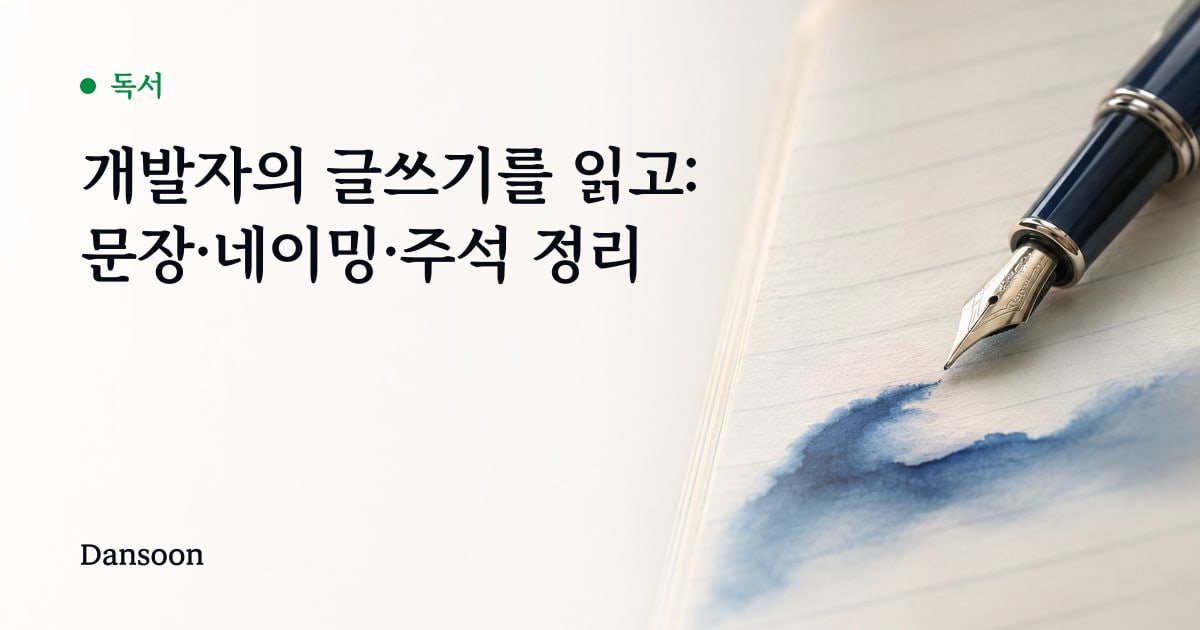
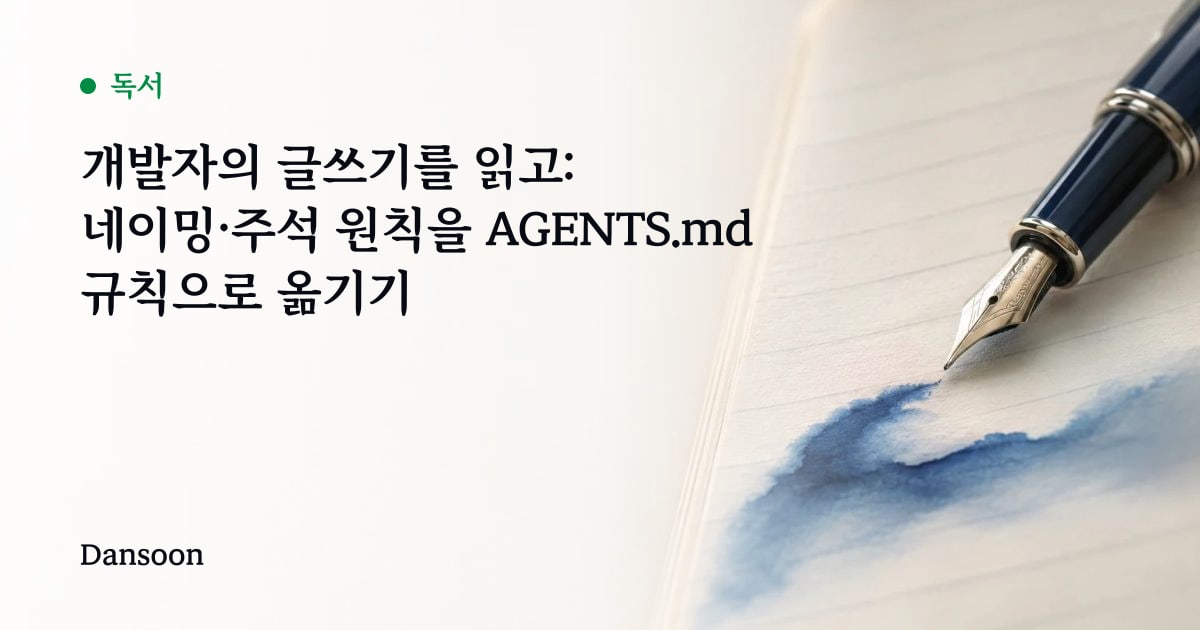
docs(dansoon): 개발자의 글쓰기 글에 AGENTS.md 규칙으로 옮긴 사례 추가 (#294)
책 요약 위주라 고유 가치가 약했던 글에, 책의 네이밍·주석·문장 원칙이
실제 AGENTS.md 규칙과 커밋 메시지로 남은 사례를 6장으로 더한다.
제목·설명·태그를 고치고 본문 이미지와 썸네일을 새로 만든다.

Changed region(s): [[0.0617, 0.2111, 0.6475, 0.5127]]

diff --git a/apps/dansoon/contents/posts/writing-for-developers/index.md b/apps/dansoon/contents/posts/writing-for-developers/index.md
@@ -1,10 +1,10 @@
 ---
-title: "개발자의 글쓰기를 읽고: 문장·네이밍·주석 정리"
-description: "『개발자의 글쓰기』를 바탕으로 문장 구조, 띄어쓰기, 네이밍, 주석 원칙을 개발자 관점에서 정리해요. 코드와 글이 같은 소통 기술임을 짚어요."
+title: "개발자의 글쓰기를 읽고: 네이밍·주석 원칙을 AGENTS.md 규칙으로 옮기기"
+description: "『개발자의 글쓰기』의 문장·네이밍·주석 원칙을 정리하고, 그 원칙을 AI 코딩 도구가 읽는 AGENTS.md 규칙으로 옮긴 실제 사례를 함께 보여줘요."
 publishedAt: "2025-09-29T09:33:03+09:00"
-updatedAt: "2026-11-10T18:24:00+09:00"
+updatedAt: "2026-11-13T12:04:00+09:00"
 category: "reading"
-tags: ["writing"]
+tags: ["writing", "ai"]
 legacyUrl: "https://dansoon-dev.tistory.com/21"
 thumbnail: "./thumbnail.jpg"
 cover: "./cover.webp"
@@ -164,6 +164,41 @@ const screenHeightMax = 480
 
 주석은 코드가 무엇을 하는지보다 왜 그렇게 했는지를 적을 때 가치가 큽니다. 무엇을 하는지는 이름과 구조로 드러낼 수 있지만 결정의 이유는 코드에 남지 않기 때문입니다.
 
+## 6. 책의 원칙을 AGENTS.md 규칙으로 옮기기
+
+요즘은 AI와 함께 코드를 쓰는 시간이 길어졌습니다. AI를 활용해 개발을 더 열심히 해 보고 싶었고 그러려면 AI가 매번 따를 기준이 필요했습니다. 이 책을 읽고 남은 생각은 개발 철학이 되었고 그 철학을 AI 하네스에 담았습니다. 하네스는 Claude Code나 Codex 같은 AI 코딩 도구가 작업을 시작할 때 읽는 지침과 설정의 묶음입니다. 공통 규칙은 이 저장소의 [AGENTS.md](https://github.com/KimDanwoo/labs/blob/main/AGENTS.md)에 있습니다.
+
+![책에서 얻은 원칙이 AI가 읽는 규칙 문서로 옮겨지는 모습](./book-to-rules.webp)
+
+아래 표는 앞에서 정리한 책의 원칙과 지금 AGENTS.md에 적힌 규칙을 나란히 놓은 것입니다. 오른쪽 칸은 파일에 적힌 문구를 그대로 옮겼습니다.
+
+| 책의 원칙 | AGENTS.md의 규칙 |
+| --- | --- |
+| 이름 규칙은 언어의 관례를 따르고 팀 안에서 고정한다 | 변수/함수 camelCase · 컴포넌트/타입 PascalCase · 상수 SCREAMING_SNAKE_CASE |
+| 단어는 정확성보다 일관성이 중요하다 | boolean `is/has/should` · 핸들러 `handleXxx`/`onXxx` · 훅 `useXxx` |
+| 주석은 무엇보다 왜를 적는다 | 금지: 흐름 설명 주석(자명한 코드로) |
+| 간단한 문장을 먼저 쓰고 필요하면 부연한다 | 커밋 설명: 한국어·명령형·간결. 무엇을 왜 했는지. 부연이 필요하면 `— 이유/절충`으로 덧붙인다 |
+
+### 주석: 이유를 남길 자리를 정해 두기
+
+흐름을 설명하는 주석을 막는 규칙은 "이름이 곧 주석"과 같은 방향입니다. 반대로 이유를 꼭 남겨야 하는 자리는 규칙으로 정했습니다. 공유 디자인 토큰을 쓰는 앱에서는 Tailwind 기본 팔레트 색이나 임의 색 값을 `pnpm lint`가 막습니다. 그래도 써야 한다면 그 줄이나 바로 윗줄에 `token-exception: 이유` 주석을 남겨야 합니다. 주석은 줄이되 결정의 이유는 남긴다는 원칙을 도구가 지키는 형태입니다. 이 검사를 만든 과정은 [디자인 토큰 규칙을 문서 대신 도구가 지키게 만들기](/posts/design-token-conventions/)에 정리했습니다.
+
+### 커밋 메시지: 간단한 문장 뒤에 이유 붙이기
+
+이 저장소의 실제 커밋 메시지 하나입니다.
+
+```text
+fix(dansoon): 첫 진입 page_view 중복 제거 — 첫 조회는 gtag config에 맡기고 화면 전환만 직접 전송
+```
+
+앞부분은 무엇을 했는지 한 문장으로 말하고 `—` 뒤에 왜 그렇게 했는지를 붙였습니다. 핵심만 담은 간단한 문장을 먼저 쓰고 필요하면 부가 설명으로 넓히라는 책의 조언을 커밋 한 줄에 적용한 구조입니다. AGENTS.md에 따르면 `/commit` 명령도 이 규칙대로 커밋을 만듭니다.
+
+### 사람의 습관과 AI가 읽는 규칙
+
+책의 조언은 사람이 몸에 익히는 습관입니다. 하네스에 적은 규칙은 AI가 작업을 시작할 때마다 다시 읽습니다. 그래서 원칙을 한 번 문장으로 정리해 두면 사람이 매번 기억해 내지 않아도 작업마다 같은 기준을 꺼내 쓸 수 있다고 생각합니다. 다만 적어 둔다고 항상 지켜지지는 않습니다. 디자인 토큰처럼 어기면 화면에 바로 드러나는 규칙은 문서에만 두지 않고 lint로 검사하게 했습니다.
+
+AI에게 어떤 조건에서 판단을 맡기는지는 [AI에게 코드를 맡기기 위한 위임의 조건](/posts/delegating-code-to-ai/)에, 하네스 구성을 다시 점검한 과정은 [Claude Code는 바뀌는데, 내 하네스는 그대로였다](/posts/removing-omc-ponytail/)에 정리했습니다.
+
 ## 정리: 코드와 글을 함께 구조화하기
 
 개발자의 글쓰기는 코드와 글을 동시에 구조화하는 기술입니다.
@@ -172,6 +207,7 @@ const screenHeightMax = 480
 -   일관성 있는 띄어쓰기와 따옴표
 -   네이밍은 창조가 아닌 조합, SMART 기준으로
 -   주석은 최소화하되 의도와 맥락을 기록
+-   이 원칙을 AGENTS.md 규칙으로 적어 AI와 하는 작업에도 같은 기준을 적용
 
 코드와 문서 모두 결국은 팀 전체를 위한 소통 도구입니다.
 
